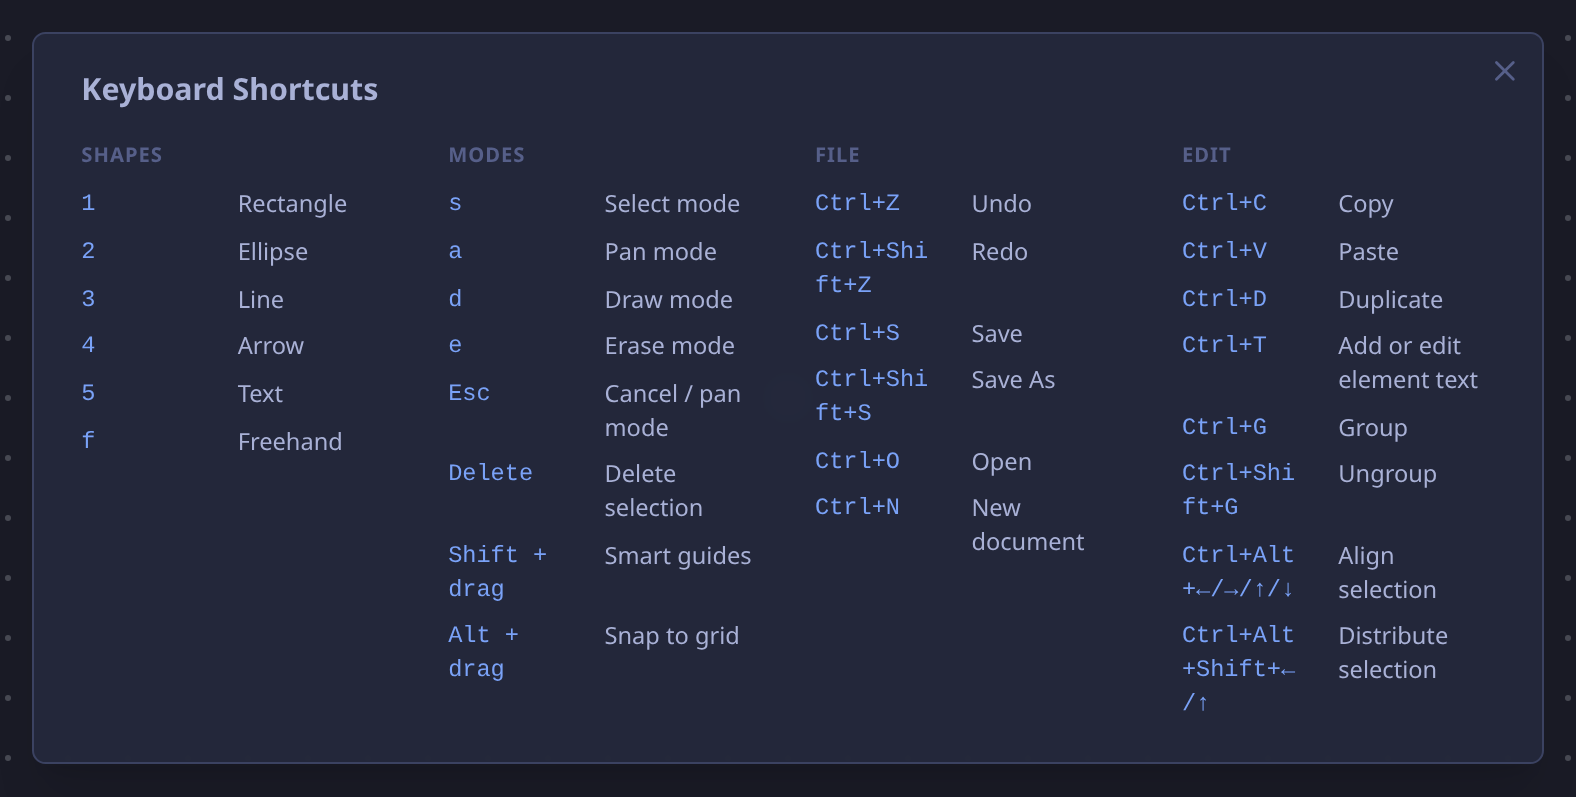
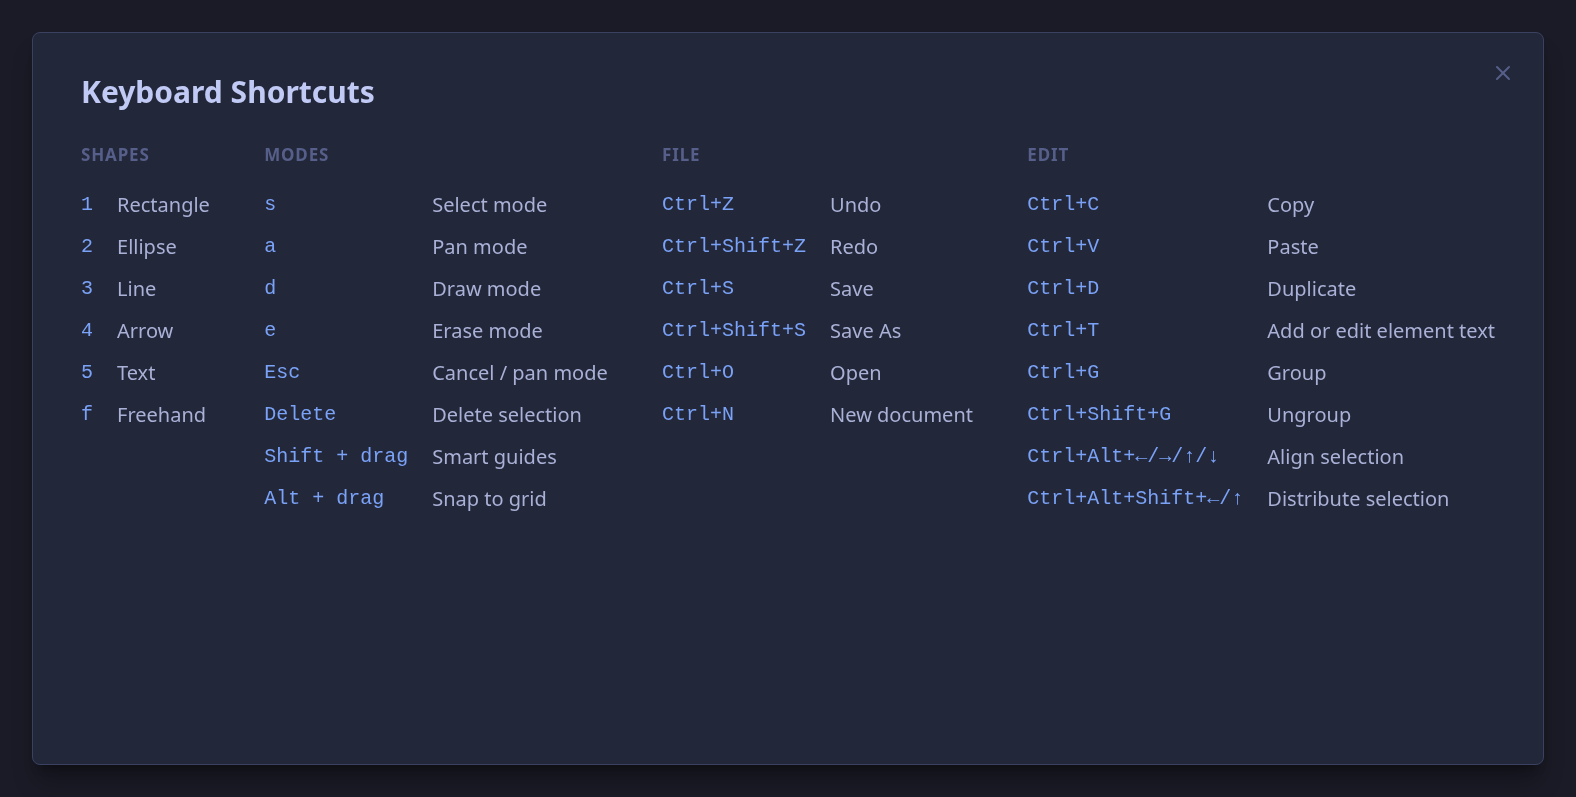
fix: shortcuts column alignment

diff --git a/src/hotkeys.rs b/src/hotkeys.rs
@@ -350,7 +350,7 @@ pub fn ShortcutsModal(shortcuts_open: RwSignal<bool>) -> impl IntoView {
                         on:click=move |_| shortcuts_open.set(false)
                     ></div>
                     <div class="fixed inset-0 z-50 grid place-items-center pointer-events-none">
-                        <div class="pointer-events-auto rounded-lg bg-panel/95 backdrop-blur-sm border border-border shadow-xl py-5 px-7 max-w-4xl w-full mx-4 max-h-[85vh] overflow-y-auto">
+                        <div class="relative pointer-events-auto rounded-lg bg-panel/95 backdrop-blur-sm border border-border shadow-xl py-5 px-7 max-w-4xl w-full mx-4 max-h-[85vh] overflow-y-auto">
                             <button
                                 class="absolute top-3 right-3 text-subtle hover:text-fg transition-colors"
                                 on:click=move |_| shortcuts_open.set(false)
@@ -359,24 +359,22 @@ pub fn ShortcutsModal(shortcuts_open: RwSignal<bool>) -> impl IntoView {
                                 {icon::close()}
                             </button>
                             <h2 class="text-lg font-semibold mb-4">"Keyboard Shortcuts"</h2>
-                            <div class="grid grid-cols-1 sm:grid-cols-2 lg:grid-cols-4 gap-x-8 gap-y-6">
+                            <div class="grid grid-cols-1 sm:grid-cols-2 lg:flex lg:justify-between gap-x-8 gap-y-6">
                                 <div class="min-w-0">
                                     <h3 class="text-xs font-semibold text-subtle uppercase tracking-wider mb-2">
                                         "Shapes"
                                     </h3>
-                                    <table class="text-sm w-full table-fixed">
+                                    <table class="text-sm">
                                         <tbody>
                                             {TOOL_SHORTCUTS
                                                 .iter()
                                                 .map(|(key, desc)| {
                                                     view! {
                                                         <tr>
-                                                            <td class="py-1 pr-5 font-mono text-accent whitespace-normal break-words align-top">
+                                                            <td class="py-1 pr-4 font-mono text-accent whitespace-nowrap align-top">
                                                                 {*key}
                                                             </td>
-                                                            <td class="py-1 text-fg whitespace-normal break-words align-top">
-                                                                {*desc}
-                                                            </td>
+                                                            <td class="py-1 text-fg align-top">{*desc}</td>
                                                         </tr>
                                                     }
                                                 })
@@ -388,19 +386,17 @@ pub fn ShortcutsModal(shortcuts_open: RwSignal<bool>) -> impl IntoView {
                                     <h3 class="text-xs font-semibold text-subtle uppercase tracking-wider mb-2">
                                         "Modes"
                                     </h3>
-                                    <table class="text-sm w-full table-fixed">
+                                    <table class="text-sm">
                                         <tbody>
                                             {MODE_SHORTCUTS
                                                 .iter()
                                                 .map(|(key, desc)| {
                                                     view! {
                                                         <tr>
-                                                            <td class="py-1 pr-5 font-mono text-accent whitespace-normal break-words align-top">
+                                                            <td class="py-1 pr-4 font-mono text-accent whitespace-nowrap align-top">
                                                                 {*key}
                                                             </td>
-                                                            <td class="py-1 text-fg whitespace-normal break-words align-top">
-                                                                {*desc}
-                                                            </td>
+                                                            <td class="py-1 text-fg align-top">{*desc}</td>
                                                         </tr>
                                                     }
                                                 })
@@ -412,19 +408,17 @@ pub fn ShortcutsModal(shortcuts_open: RwSignal<bool>) -> impl IntoView {
                                     <h3 class="text-xs font-semibold text-subtle uppercase tracking-wider mb-2">
                                         "File"
                                     </h3>
-                                    <table class="text-sm w-full table-fixed">
+                                    <table class="text-sm">
                                         <tbody>
                                             {FILE_SHORTCUTS
                                                 .iter()
                                                 .map(|(key, desc)| {
                                                     view! {
                                                         <tr>
-                                                            <td class="py-1 pr-5 font-mono text-accent whitespace-normal break-words align-top">
+                                                            <td class="py-1 pr-4 font-mono text-accent whitespace-nowrap align-top">
                                                                 {*key}
                                                             </td>
-                                                            <td class="py-1 text-fg whitespace-normal break-words align-top">
-                                                                {*desc}
-                                                            </td>
+                                                            <td class="py-1 text-fg align-top">{*desc}</td>
                                                         </tr>
                                                     }
                                                 })
@@ -436,19 +430,17 @@ pub fn ShortcutsModal(shortcuts_open: RwSignal<bool>) -> impl IntoView {
                                     <h3 class="text-xs font-semibold text-subtle uppercase tracking-wider mb-2">
                                         "Edit"
                                     </h3>
-                                    <table class="text-sm w-full table-fixed">
+                                    <table class="text-sm">
                                         <tbody>
                                             {EDIT_SHORTCUTS
                                                 .iter()
                                                 .map(|(key, desc)| {
                                                     view! {
                                                         <tr>
-                                                            <td class="py-1 pr-5 font-mono text-accent whitespace-normal break-words align-top">
+                                                            <td class="py-1 pr-4 font-mono text-accent whitespace-nowrap align-top">
                                                                 {*key}
                                                             </td>
-                                                            <td class="py-1 text-fg whitespace-normal break-words align-top">
-                                                                {*desc}
-                                                            </td>
+                                                            <td class="py-1 text-fg align-top">{*desc}</td>
                                                         </tr>
                                                     }
                                                 })
